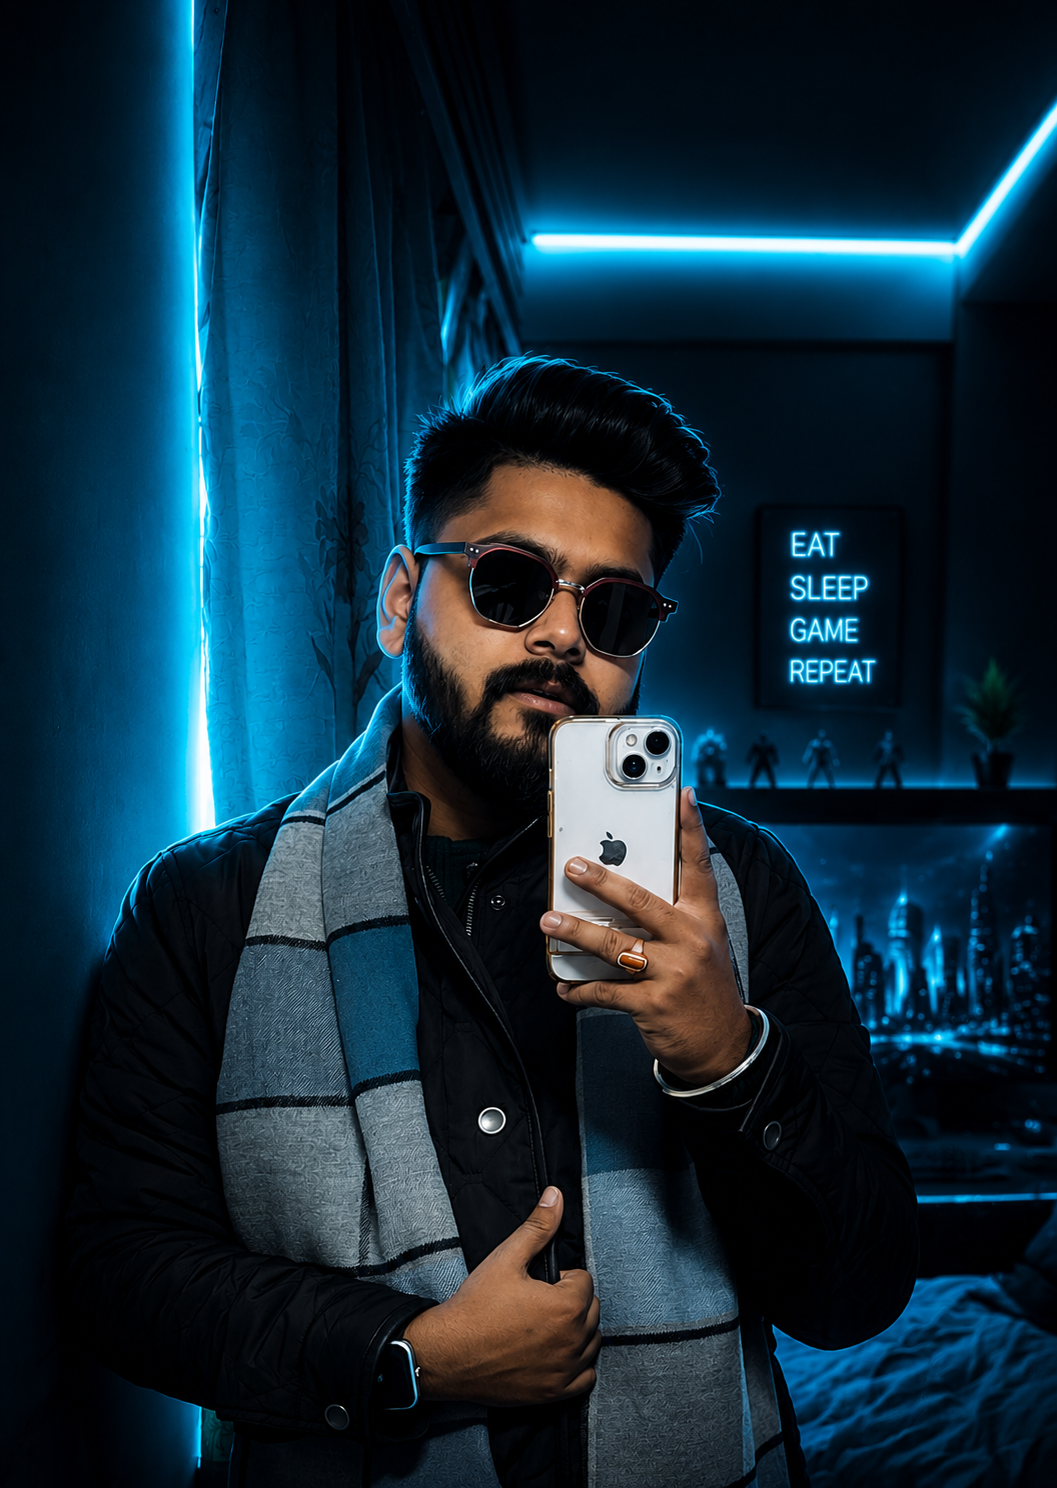
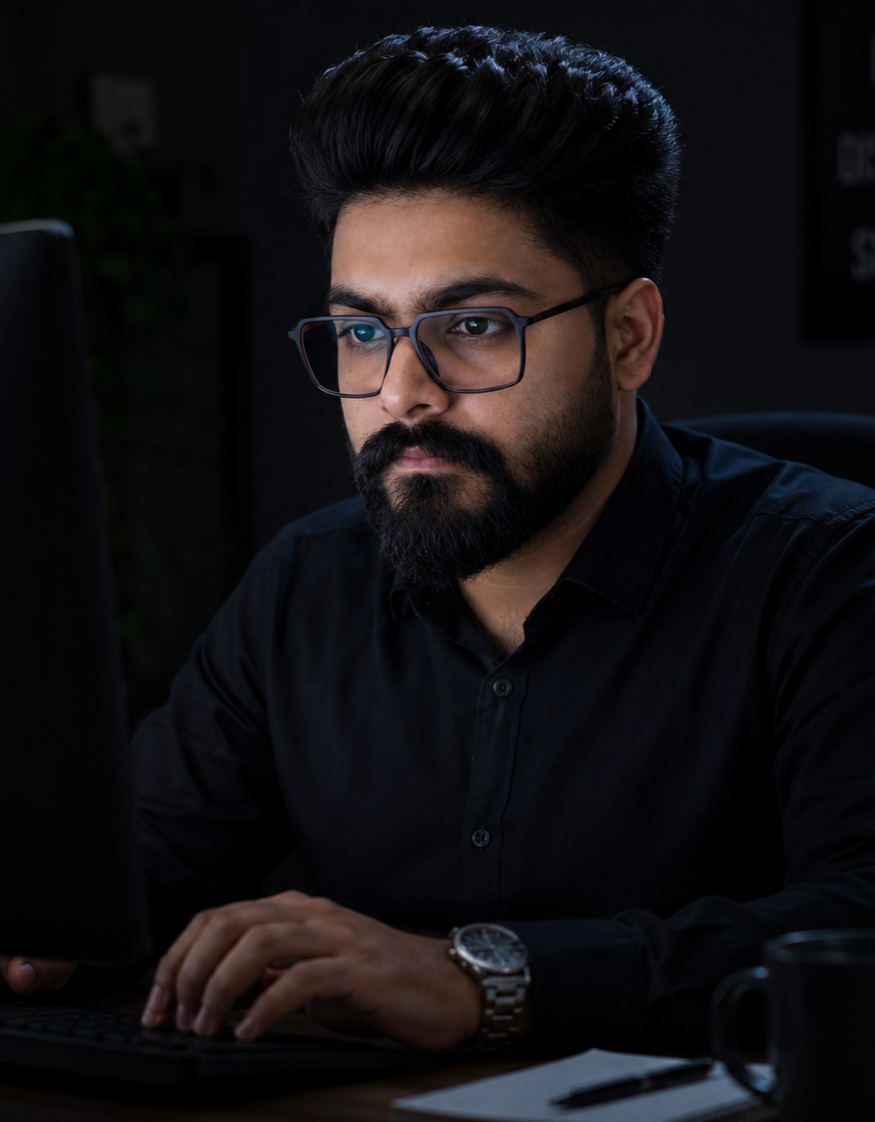
update

diff --git a/src/pages/Home/Home.jsx b/src/pages/Home/Home.jsx
@@ -12,21 +12,23 @@ const Home = () => {
   const [line2, setLine2] = useState("")
   const [showStats, setShowStats] = useState(false)
   const fullLine1 = "Hi, I'm Parichay"
-  const fullLine2 = "Full Stack Developer"
+  const fullLine2 = "Full Stack Developer from India 🇮🇳";
 
   useEffect(() => {
+    const chars1 = Array.from(fullLine1)
+    const chars2 = Array.from(fullLine2)
     let index1 = 0
     let index2 = 0
 
     const timer1 = setInterval(() => {
-      if (index1 < fullLine1.length) {
-        setLine1(fullLine1.slice(0, index1 + 1))
+      if (index1 < chars1.length) {
+        setLine1(chars1.slice(0, index1 + 1).join(""))
         index1++
       } else {
         clearInterval(timer1)
         const timer2 = setInterval(() => {
-          if (index2 < fullLine2.length) {
-            setLine2(fullLine2.slice(0, index2 + 1))
+          if (index2 < chars2.length) {
+            setLine2(chars2.slice(0, index2 + 1).join(""))
             index2++
           } else {
             clearInterval(timer2)

diff --git a/src/pages/Home/Home.module.css b/src/pages/Home/Home.module.css
@@ -286,7 +286,7 @@
 .imageFrame {
   position: relative;
   width: 100%;
-  max-width: 320px;
+  max-width: 300px;
   overflow: hidden;
   border: 1px solid rgba(0, 245, 255, 0.2);
   box-shadow: 0 0 30px rgba(0, 245, 255, 0.1), inset 0 0 30px rgba(0, 0, 0, 0.5);
@@ -399,7 +399,7 @@
   width: 100%;
   height: auto;
   object-fit: cover;
-  display: block;
+  /* display: block; */
   filter: brightness(0.9) contrast(1.05);
 }
 
@@ -456,7 +456,7 @@
   }
 
   .imageFrame {
-    max-width: 240px;
+    max-width: 320px;
   }
 
   .menuHint {
@@ -477,7 +477,7 @@
   .heading1 { font-size: 1.6rem; }
   .heading2 { font-size: 1.2rem; }
   .prompt { font-size: 1.5rem; }
-  .imageFrame { max-width: 200px; }
+  .imageFrame { max-width: 260px; }
   .statValue { font-size: 1rem; }
   .cvButton { font-size: 0.7rem; padding: 0.7rem 1.1rem; letter-spacing: 1px; }
   .buttonRow { gap: 0.5rem; }

diff --git a/src/pages/About/About.jsx b/src/pages/About/About.jsx
@@ -50,7 +50,7 @@ const About = () => {
               <div className={styles.cornerBR}></div>
               <div className={styles.scanBeam}></div>
               <motion.img
-                src="/avatar.png"
+                src="/side.png"
                 alt="Parichay Dutta Biswas"
                 className={styles.profileImage}
                 whileHover={{ scale: 1.03 }}

diff --git a/src/pages/Skills/Skills.jsx b/src/pages/Skills/Skills.jsx
@@ -192,7 +192,7 @@ const Skills = () => {
               <div className={styles.imgCornerBR}></div>
               <div className={styles.imgScanBeam}></div>
               <img
-                src="/side.png"
+                src="/avatar.jpg"
                 alt="Developer workspace"
                 className={styles.skillsImage}
               />

diff --git a/src/pages/Skills/Skills.module.css b/src/pages/Skills/Skills.module.css
@@ -261,7 +261,7 @@
 .imageContainer {
   position: relative;
   width: 100%;
-  max-width: 380px;
+  max-width: 300px;
   border: 1px solid rgba(0, 245, 255, 0.2);
   overflow: hidden;
   box-shadow: 0 0 30px rgba(0, 245, 255, 0.08);
